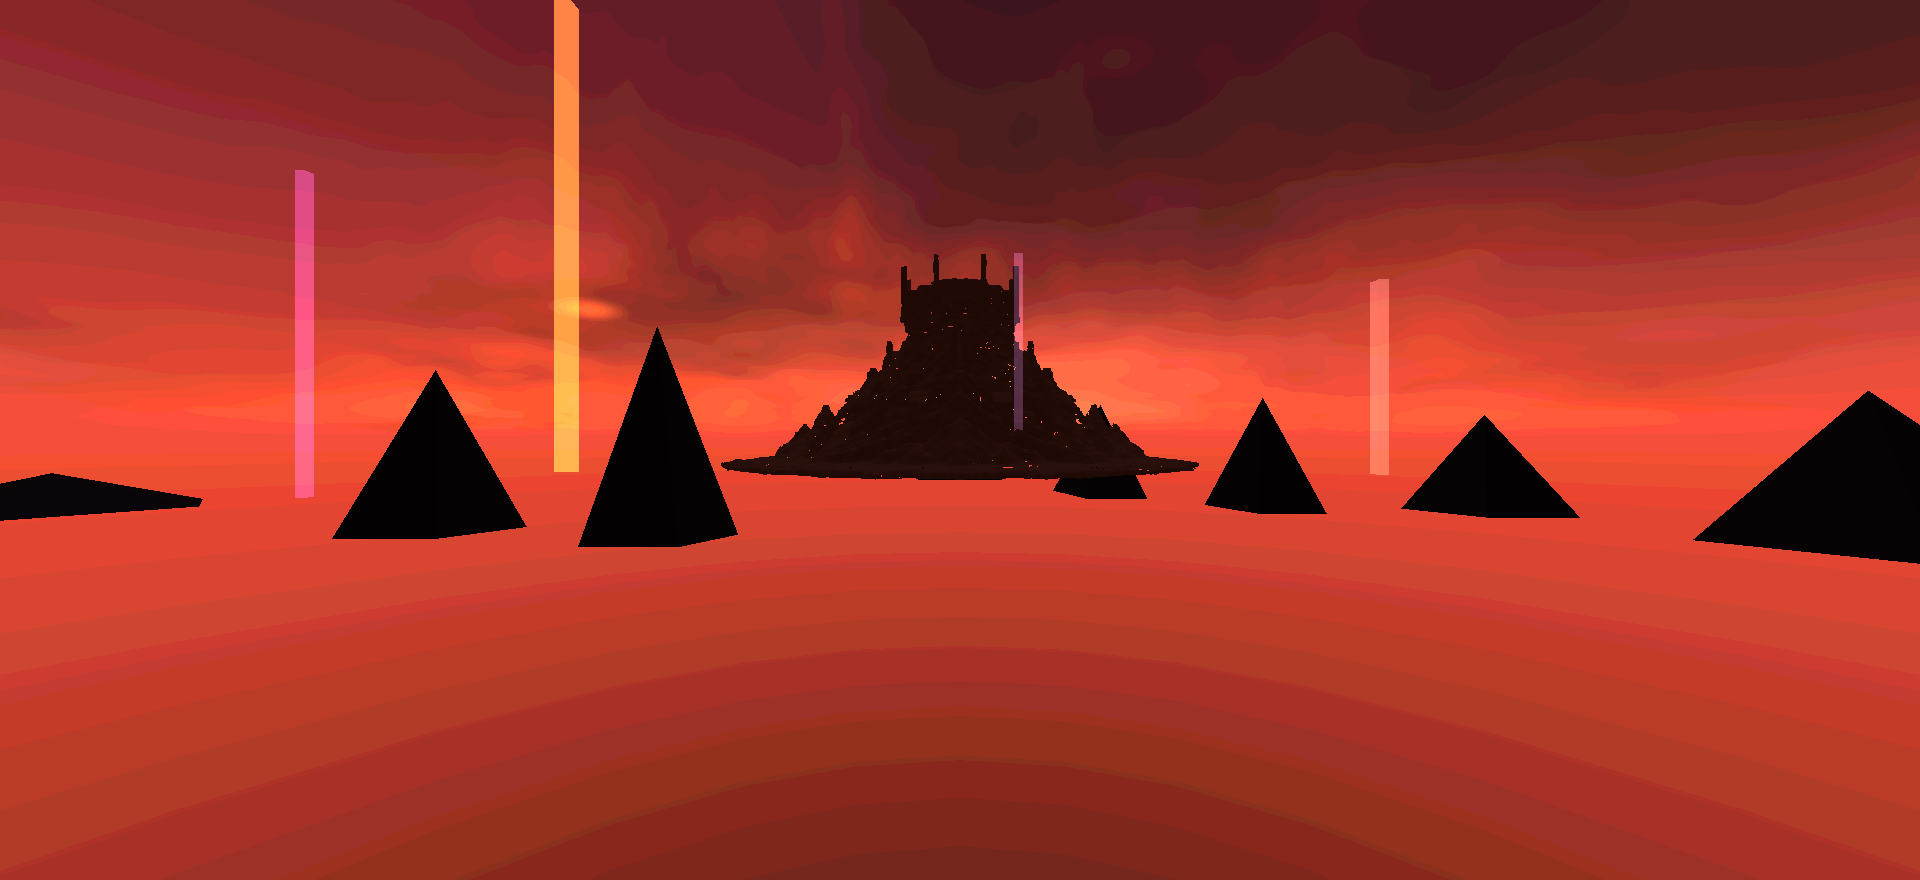
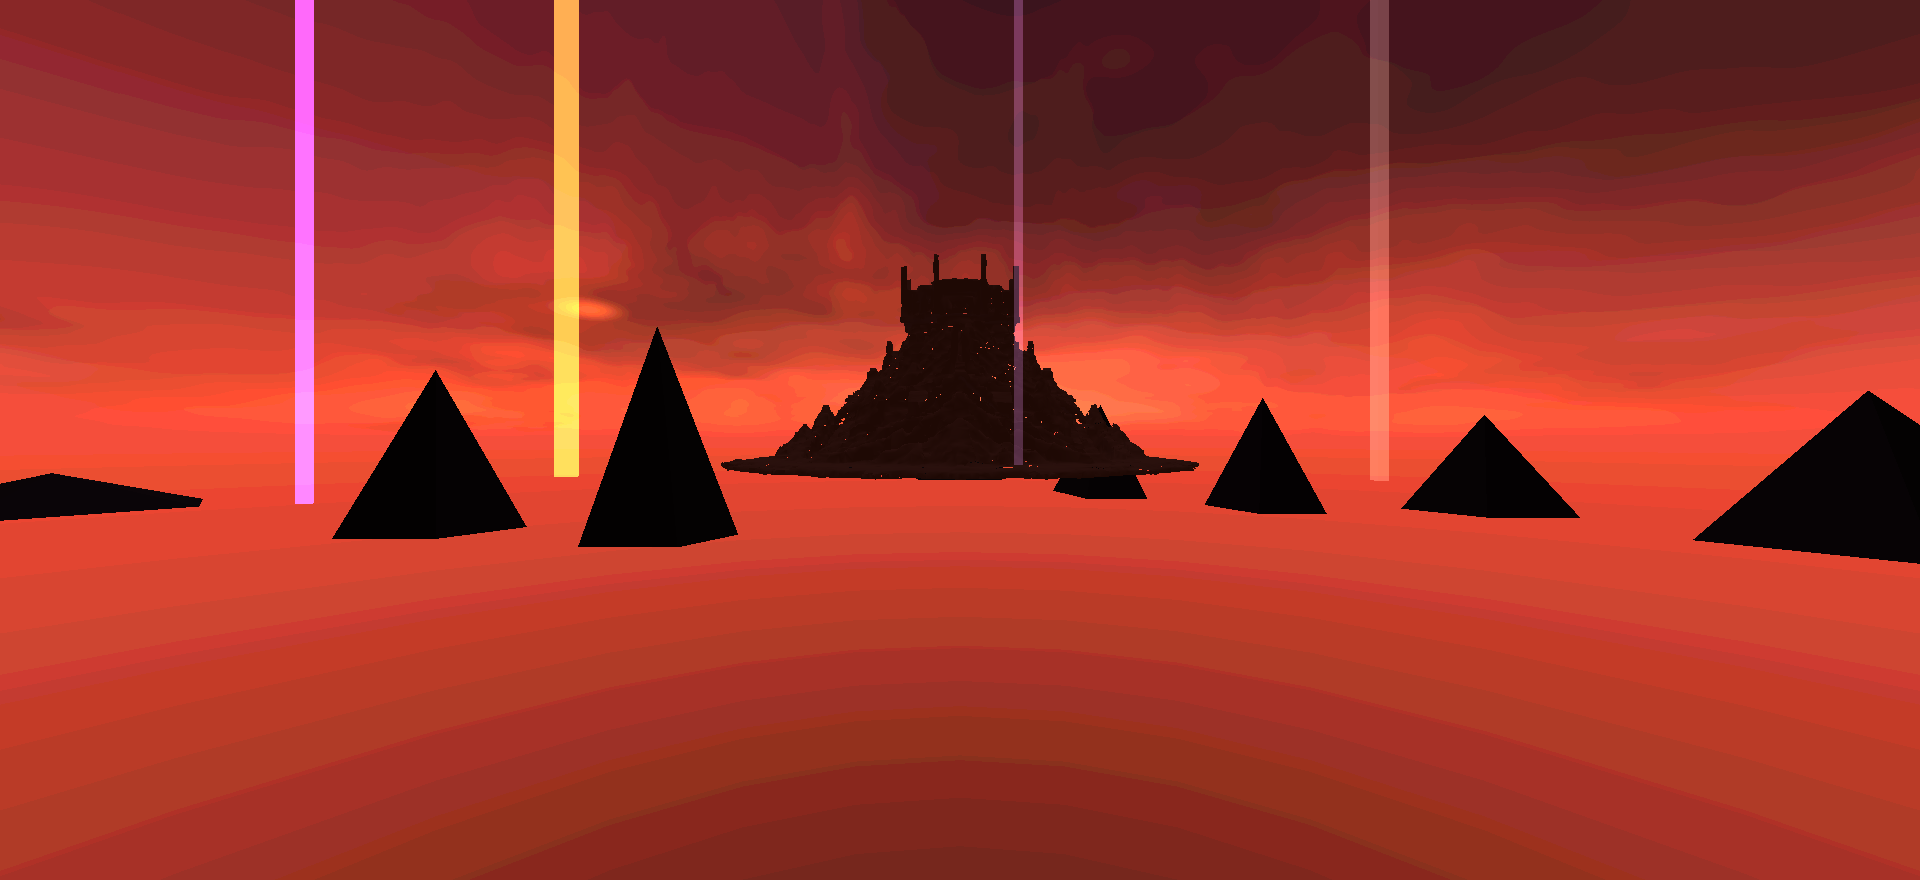
feat(shelter): beacons climb high enough to see from the maze
Beacon columns now rise a fixed angle above the horizon (smoke 48-58 degrees, a
claimed glow 44, a seal pillar 62) instead of a fixed height, so a distant fire
clears the maze walls and runs off the top of the view. The beacon range goes from
14 to 20 chunks: the first shelter on each road stands 13-17 chunks from home and
was often out of range from the maze. A test pins that every road's first shelter
shows from the home shelter.

Changed region(s): [[0.6875, 0.0, 0.75, 0.3068], [0.1562, 0.0, 0.1875, 0.583], [0.2812, 0.0, 0.3125, 0.5523]]

diff --git a/core/src/main/java/com/bpm/minotaur/rendering/Skybox3DRenderer.java b/core/src/main/java/com/bpm/minotaur/rendering/Skybox3DRenderer.java
@@ -197,6 +197,15 @@ public class Skybox3DRenderer {
         }
     }
 
+    /**
+     * How high, in degrees above the horizon, each beacon climbs. Tall enough to clear the
+     * maze walls and stand above the top of the view when looked at straight on, so a
+     * shelter's fire can be found from deep in the maze.
+     */
+    private static final float BEACON_SMOKE_ELEVATION = 48f;
+    private static final float BEACON_GLOW_ELEVATION = 44f;
+    private static final float BEACON_PILLAR_ELEVATION = 62f;
+
     /** A unit column, base at the origin, for the shelter beacons. Coloured per instance. */
     private void buildBeaconModel() {
         com.badlogic.gdx.graphics.g3d.utils.ModelBuilder mb = new com.badlogic.gdx.graphics.g3d.utils.ModelBuilder();
@@ -238,12 +247,15 @@ public class Skybox3DRenderer {
             if (chunks < 0.01f) continue;
             float near = 1f - MathUtils.clamp(chunks / range, 0f, 1f);
             float dist = LANDMARK_DISTANCE * (0.45f + 0.5f * (1f - near));
-            float width, height;
+            // Height is set by the angle a column climbs above the horizon, not in units, so a
+            // distant beacon still rises clear of the maze walls rather than shrinking into them.
+            float width, elevationDeg;
             switch (b.getKind()) {
-                case PILLAR: width = 0.022f * dist; height = 95f; break;
-                case GLOW:   width = 0.010f * dist; height = 26f + 20f * near; break;
-                default:     width = 0.016f * dist; height = 34f + 30f * near; break;
+                case PILLAR: width = 0.022f * dist; elevationDeg = BEACON_PILLAR_ELEVATION; break;
+                case GLOW:   width = 0.010f * dist; elevationDeg = BEACON_GLOW_ELEVATION; break;
+                default:     width = 0.016f * dist; elevationDeg = BEACON_SMOKE_ELEVATION + 10f * near; break;
             }
+            float height = dist * (float) Math.tan(Math.toRadians(elevationDeg));
             Color c = b.getColor();
             // Smoke burns by night and drifts by day; a claimed shelter's glow and a pillar hold steady.
             boolean steady = b.getKind() != com.bpm.minotaur.gamedata.shelter.BeaconPlanner.Kind.SMOKE;

diff --git a/core/src/test/java/com/bpm/minotaur/gamedata/shelter/BeaconPlannerTest.java b/core/src/test/java/com/bpm/minotaur/gamedata/shelter/BeaconPlannerTest.java
@@ -51,6 +51,19 @@ public class BeaconPlannerTest {
     }
 
     @Test
+    public void fromTheHomeShelterEveryRoadsFirstShelterShows() {
+        for (int i = 0; i < 40; i++) {
+            BiomeManager world = new BiomeManager(0x51A7E5L * (i + 3));
+            List<BeaconPlanner.Beacon> sky = BeaconPlanner.visible(world, net, 0, 0, WorldConstants.BEACON_RANGE_CHUNKS);
+            for (ShelterRoads.Road road : world.getRoads().getRoads()) {
+                GridPoint2 first = road.getShelters().get(0);
+                assertNotNull("seed " + i + ": road " + road.getIndex() + "'s first shelter " + first
+                        + " is not visible from home", find(sky, first));
+            }
+        }
+    }
+
+    @Test
     public void theShelterYouStandInShowsNoBeacon() {
         GridPoint2 here = bm.getRoads().getRoad(0).getShelters().get(0);
         assertNull(find(BeaconPlanner.visible(bm, net, here.x, here.y, 14f), here));

diff --git a/core/src/main/java/com/bpm/minotaur/generation/WorldConstants.java b/core/src/main/java/com/bpm/minotaur/generation/WorldConstants.java
@@ -136,7 +136,7 @@ public class WorldConstants {
     /** Off-road shelters keep at least this far from any road line, so they never read as road stops. */
     public static final float OFF_ROAD_CLEARANCE = 3f;
     /** Beacons show within this many chunks. */
-    public static final float BEACON_RANGE_CHUNKS = 14f;
+    public static final float BEACON_RANGE_CHUNKS = 20f;
 
     // Authentic Dynamic Dungeon Lighting Constants
     public static final float TORCH_FULL_BRIGHTNESS_RADIUS = 1.8f; // Distance where lighting is at 100%

diff --git a/docs/tuning_knobs.md b/docs/tuning_knobs.md
@@ -388,7 +388,7 @@ Sprite brightness falloff (`J/generation/WorldConstants.java`): `TORCH_FULL_BRIG
 - Version 2 and current (3): the world seed drives everything. Bands in chunks beyond the maze edge: Forest up to `FOREST_BAND_MAX` 10, Desert `DESERT_BAND_MIN`-`MAX` 6-18, Lakelands 12-24, Tundra 18-32, Blight from `BLIGHT_BAND_MIN` 28. `BAND_WARP_CHUNKS` 4 (freq `BAND_WARP_FREQUENCY` 0.035) ragged the edges; `BAND_SELECTOR_FREQUENCY` 0.05 picks among overlapping bands. No sea or mountain within `CLEAR_GROUND_RADIUS` 6 of the maze.
 - Castle Tarmin: `CASTLE_MIN_DISTANCE` 40 to `CASTLE_MAX_DISTANCE` 60 chunks from the origin; Blight within `CASTLE_BLIGHT_RADIUS` 8 (noise-ragged); land corridor half-width `CASTLE_CORRIDOR_HALF_WIDTH` 1.0 (below 1 the walkable-route guarantee breaks).
 - Shelter roads (version 3, `J/generation/ShelterRoads.java`; see `docs/DEsign/Requirements_ Shelter Roads.md`): four roads about 90 degrees apart from the castle's bearing, seal roads leaning up to `ROAD_BEARING_JITTER_DEGREES` 7. Seal sites at `SEAL_SITE_DISTANCES` 20, 30, 40 chunks (order by seed; keep each above 15). Road shelters start `ROAD_FIRST_SHELTER_OFFSET` 3 chunks past the maze edge and follow every `ROAD_SHELTER_SPACING_MIN`-`MAX` 8-10 chunks, none within `ROAD_END_CLEARANCE` 3 of the road's end; a road too short for that still gets one shelter halfway. Off-road shelters: one candidate per `OFF_ROAD_CELL` 12-chunk cell, at least `SHELTER_MIN_SPACING` 8 from any other site and `OFF_ROAD_CLEARANCE` 3 from any road. Every road keeps the castle corridor's no-sea, no-mountain half-width.
-- Beacons: shown within `BEACON_RANGE_CHUNKS` 14 (keep above the spacing max plus the end clearance). Colours in `J/gamedata/shelter/BeaconPalette.java`: castle road purple, seal roads amber, teal and white, off-road grey smoke; a won seal's road burns at `SPENT` 0.4.
+- Beacons: shown within `BEACON_RANGE_CHUNKS` 20 (keep above the spacing max plus the end clearance, and above the first shelter's distance from home). Column height is an angle above the horizon in `Skybox3DRenderer`: `BEACON_SMOKE_ELEVATION` 48 (+10 when near), `BEACON_GLOW_ELEVATION` 44, `BEACON_PILLAR_ELEVATION` 62. Colours in `J/gamedata/shelter/BeaconPalette.java`: castle road purple, seal roads amber, teal and white, off-road grey smoke; a won seal's road burns at `SPENT` 0.4.
 
 **Shelters** (`J/gamedata/shelter/`, `J/generation/ShelterBuilder.java`)
 - Lighting a cold hearth: `HearthLighting.TURNS` 5, broken by a wound; the Tinder Bundle is spent only when the fire takes.

diff --git a/docs/DEsign/Requirements_ Shelter Roads.md b/docs/DEsign/Requirements_ Shelter Roads.md
@@ -115,14 +115,15 @@ Beacons are drawn the way the castle is: on the skybox, at the real bearing to t
 
 | Source | Look | Shown |
 | :--- | :--- | :--- |
-| Unclaimed road shelter | Smoke column by day, fire glow at night, **in the road's colour** | Within **14 chunks** (tunable) |
+| Unclaimed road shelter | Smoke column by day, fire glow at night, **in the road's colour** | Within **20 chunks** (tunable; raised from 14 so the first shelters show from the home shelter) |
 | Claimed shelter | Steady glow in its colour, plus a map marker | Within range |
 | Castle road | **Purple**, for every shelter on that road in every biome, not only inside the Blight | |
 | Seal roads | One distinct colour each (for example amber, teal, white). Colours come from `HudSkin`/`UiTheme`-style constants, never literals in screen code. | |
 | Off-road shelter | Plain grey hearth smoke | Within range |
-| Seal site | A tall **pillar of light** in the road's colour | Within 14 chunks |
+| Seal site | A tall **pillar of light** in the road's colour | Within 20 chunks |
 | Road whose seal you've already won | The road's colour, **dimmed** | |
 
+- Columns climb a fixed angle of sky (smoke 48-58 degrees, a claimed glow 44, a seal pillar 62), not a fixed height, so a distant beacon still rises clear of the maze walls.
 - Beacons show through Blight fog.
 - The ranges and spacings are first guesses; the designer expects to adjust them in playtesting.
 
